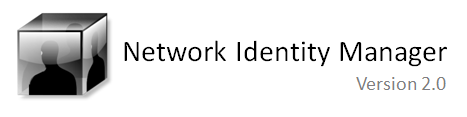
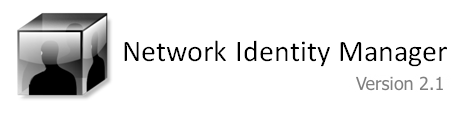
Update doc and graphics to version 2.1
Updated additional documentation and the banner graphic to
version 2.1

Changed region(s): [[0.7495, 0.641, 0.9593, 0.7692]]

diff --git a/help/html/bugs.htm b/help/html/bugs.htm
@@ -50,10 +50,10 @@
         from the main menu.</p></li>
 
     <li><p>List of plug-ins that are installed, other than the
-        defaults.  By default, Network Identity Manager version 2.0
+        defaults.  By default, Network Identity Manager version 2.1
         includes the following
-        plug-ins: <span class="pre">KeyStoreIdentity</span>, <span class="pre">KeyStoreCred</span>, <span class="pre">Krb5Ident</span>, <span class="pre">Krb5Cred</span>
-        and on 32-bit systems <span class="pre">Krb4Cred</span>.
+        plug-ins: <span class="pre">KeyStoreIdentity</span>, <span class="pre">KeyStoreCred</span>,
+        <span class="pre">Krb5Ident</span>, <span class="pre">and Krb5Cred</span>.
         Please note if any other plug-ins are installed on your
         machine and the listed version for each.</p>
 

diff --git a/help/html/keystore.htm b/help/html/keystore.htm
@@ -24,7 +24,7 @@
       obtain initial credentials for a set of identities.
     </p>
 
-    <p>Network Identity Manager 2.0 introduces the capability to
+    <p>Network Identity Manager 2.1 includes the capability to
       integrate password management into the credentials aquisition
       workflow.  This is used by the KeyStore provider to simplify the
       process of storing and using passwords.
